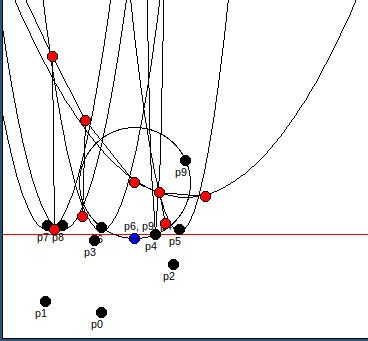
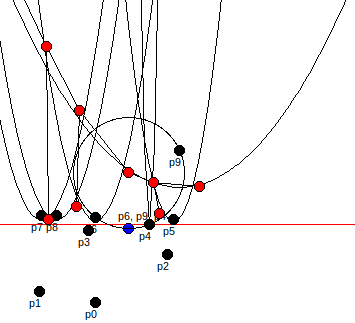
[FIX] Startup

diff --git a/main.py b/main.py
@@ -176,23 +176,23 @@ if __name__ == "__main__":
 
 
     vec = []
-    vec.append(Vector3D(6.58333333, 1.1))
-    vec.append(Vector3D(6.1,  2))
+    #vec.append(Vector3D(6.58333333, 1.1))
+    #vec.append(Vector3D(6.1,  2))
 
-    vec.append(Vector3D(2.96666667, 1.01666667))
-    vec.append(Vector3D(4, 1))
-    vec.append(Vector3D(10.2, 1.58333333))
-    vec.append(Vector3D(11.78333333, 1.25))
+    #vec.append(Vector3D(2.96666667, 1.01666667))
+    #vec.append(Vector3D(4, 1))
+    #vec.append(Vector3D(10.2, 1.58333333))
+    #vec.append(Vector3D(11.78333333, 1.25))
 
-    #[ 10.08333333   4.06666667   0.           1.        ]
-    #[ 11.78333333   1.25         0.           1.        ]
+    ##[ 10.08333333   4.06666667   0.           1.        ]
+    ##[ 11.78333333   1.25         0.           1.        ]
 
-    #vec.append(Vector3D(9.5, 2.06666667))
+    ##vec.append(Vector3D(9.5, 2.06666667))
 
-    vec.append(Vector3D(11.41666667,3.61666667))
+    #vec.append(Vector3D(11.41666667,3.61666667))
 
-    vec.append(Vector3D(6.6, 6.78333333))
-    vec.append(Vector3D(2.88333333, 6.08333333))
+    #vec.append(Vector3D(6.6, 6.78333333))
+    #vec.append(Vector3D(2.88333333, 6.08333333))
     """
     vec.append(Vector3D(5, 2.7))
     vec.append(Vector3D(3.2, 3))
